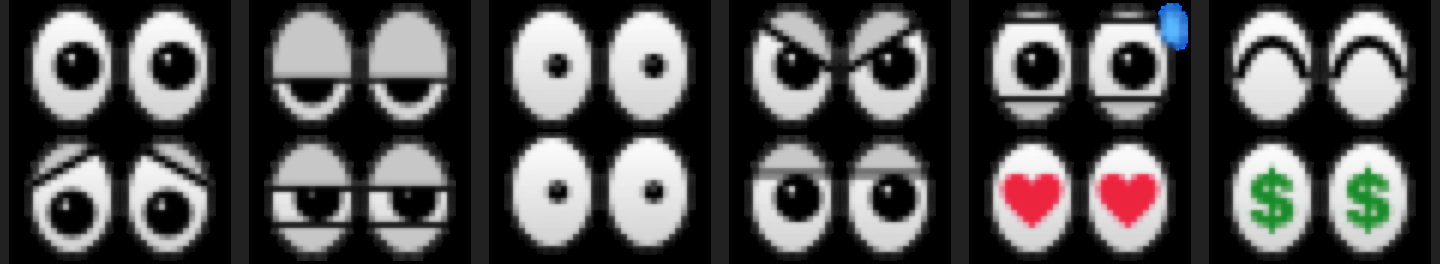
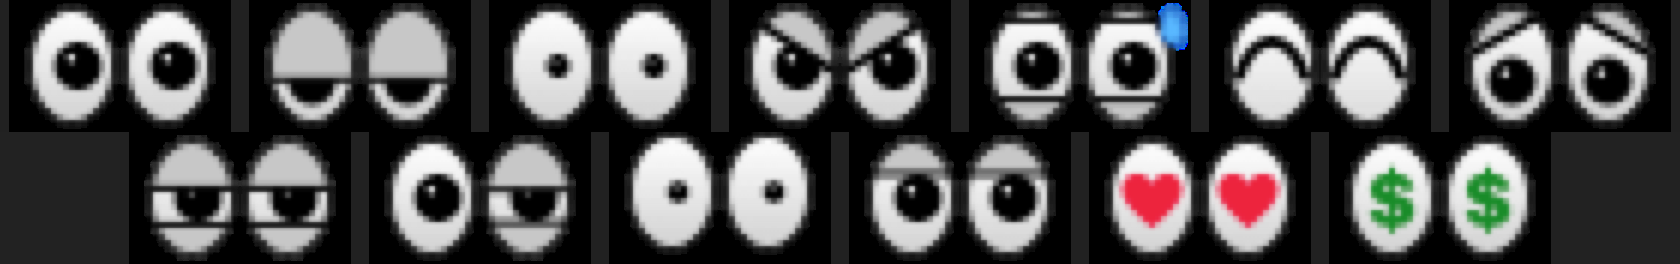
1.3.91: Skeptical one-eye squint
Claude-Session: https://claude.ai/code/session_01TPfdnKgy1NNymnDLZrvxeV

diff --git a/README.md b/README.md
@@ -160,7 +160,7 @@ Circle the pointer right over the googly eyes in the menu bar two and a half tim
 
 **Emotions.** The eyes react to what the Mac is doing: **sleepy** lids that droop the longer it sits idle, **alarmed** pinprick pupils when the CPU pegs or the battery hits 10%, **angry** when the CPU stays in the red, a **sweat** drop when it runs hot, **happy** arcs when you plug in the charger or a big download finishes, **sad** with no network, a **suspicious** squint at a lingering pointer, a one-eyed **skeptical** squint when you whip the pointer across the screen (the eye on the pointer's side, harder the faster you go), **startled** by a new drive, a **bored** eye-roll now and then — and **heart and dollar eyes** for a tip. Each one has its own checkbox in **Settings ▸ Eyes ▸ Emotions**, with a "Try one" menu to preview them.
 
-<p align="center"><img src="docs/media/eye-emotions.png" width="720" alt="The eye emotions: plain, sleepy, alarmed, angry, sweating, happy; sad, suspicious, startled, bored, hearts, dollar signs"></p>
+<p align="center"><img src="docs/media/eye-emotions.png" width="720" alt="The eye emotions: plain, sleepy, alarmed, angry, sweating, happy, sad; suspicious, skeptical one-eye squint, startled, bored, hearts, dollar signs"></p>
 
 ## Dizzy eyes
 
